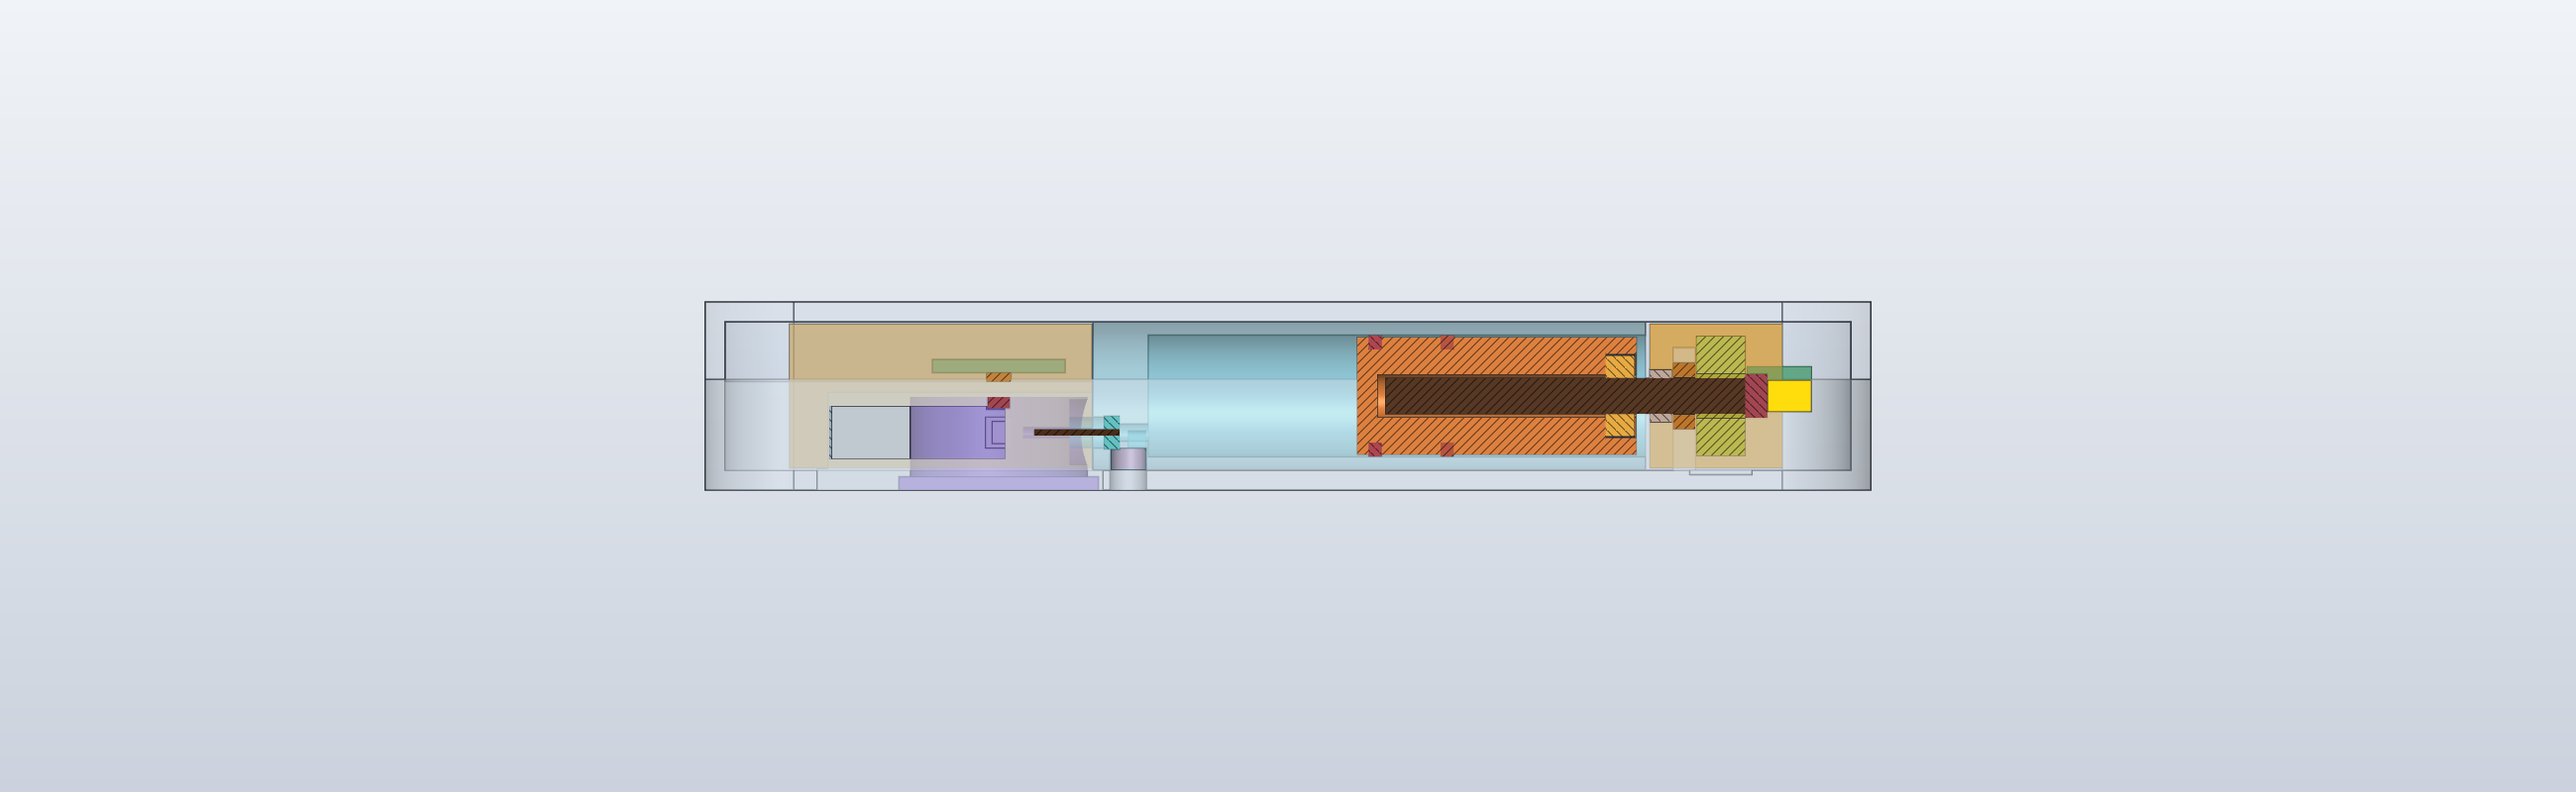
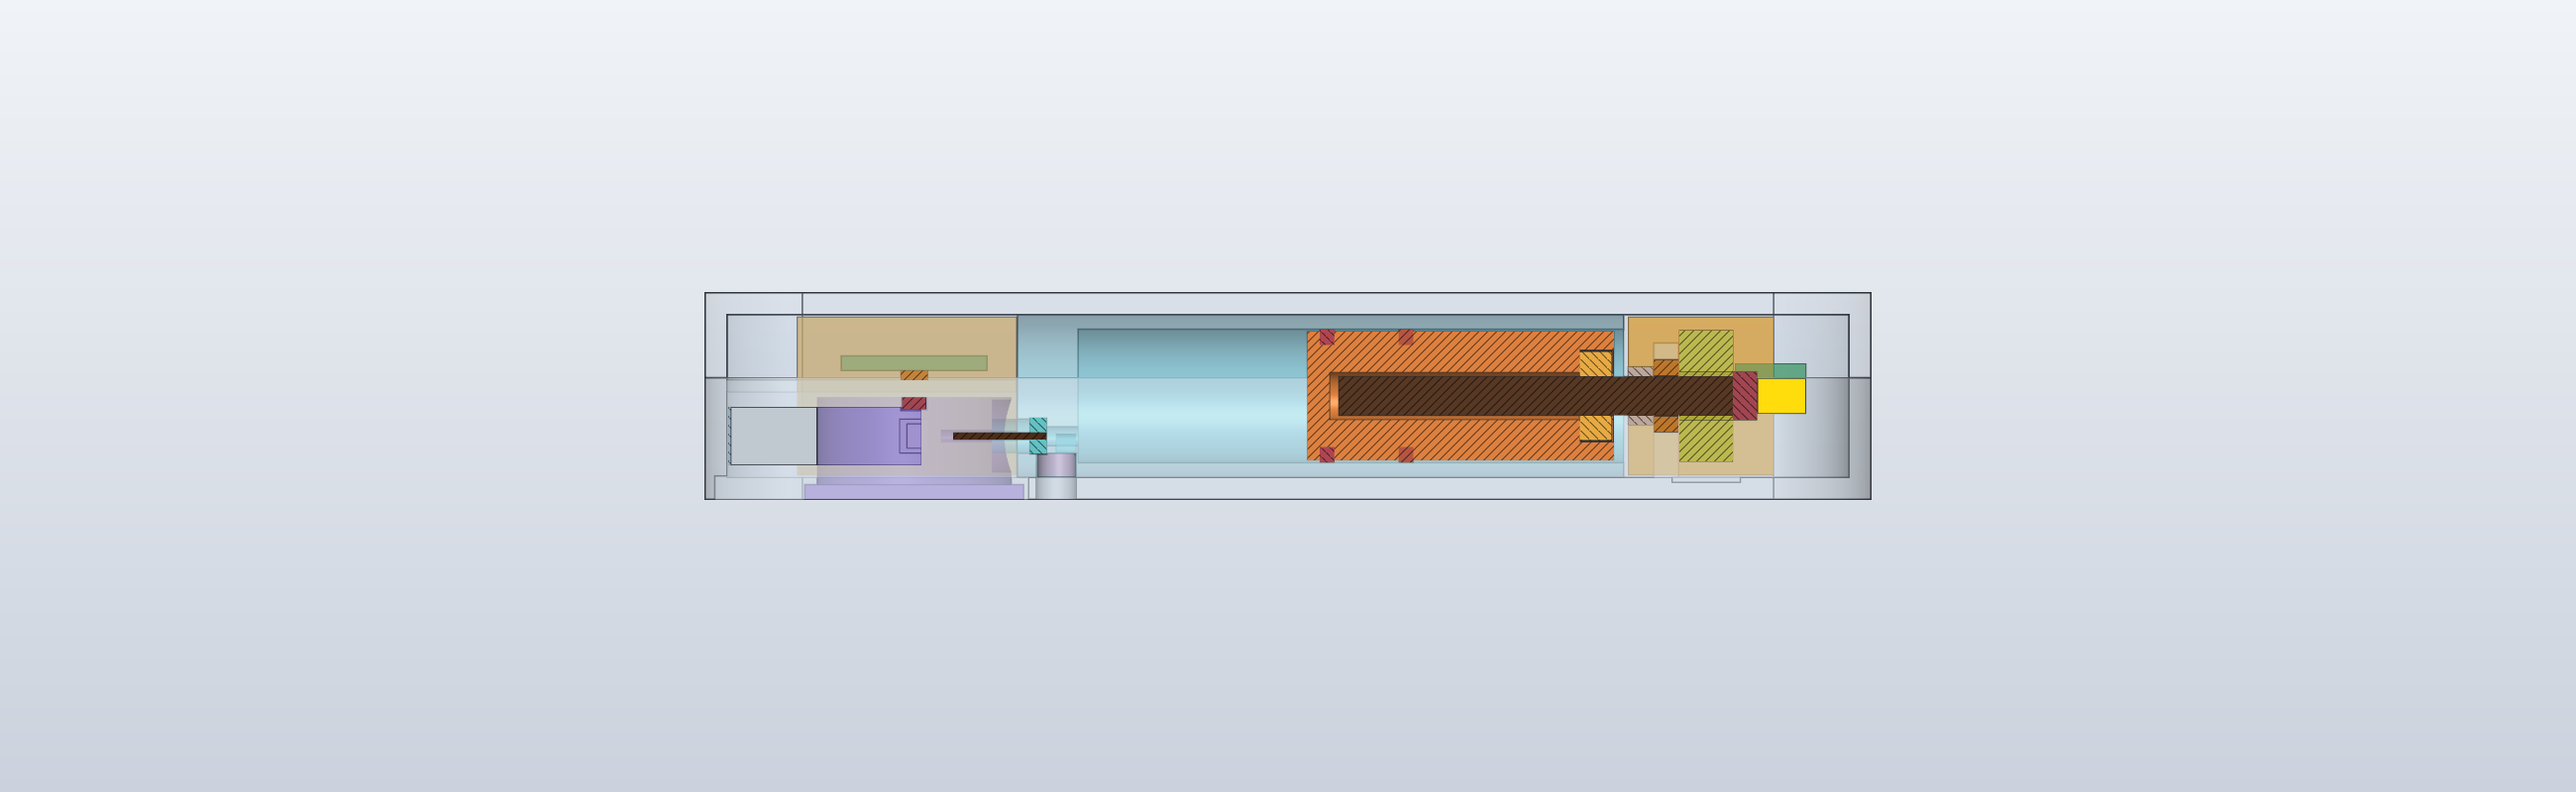
feat(mechanical): stack USB-C and board above the 301030 cell in lane 2
OP-100 47.96 x 34.6 x 8.5, OP-200 66.78 x 34.6 x 8.5; checks and packing pass.

Changed region(s): [[0.2804, 0.375, 0.7165, 0.6562]]

diff --git a/mechanical/op_cup.py b/mechanical/op_cup.py
@@ -99,7 +99,7 @@ def geometry(p: dict, variant: str) -> dict:
     K = dock.layout(p, x_t0, y_r)
     bat, u, bd = c["battery"], c["usb"], c["board"]
     xl2 = xc + 3.4
-    length = max(K["x_far"] + w, xl2 + bat["l"] + 0.3 + u["w"] + 3.1 + w)    # lane 2 (cell + USB-C on the +Y wall + corner) must fit; lane 1 sets the minimum
+    length = max(K["x_far"] + w, xl2 + bat["l"] + 3.1 + w)    # lane 2 (cell + USB-C on the +Y wall + corner) must fit; lane 1 sets the minimum
     lane2_y = [w + res_w + 0.2, W - w - 0.1]
     bat, u, bd = c["battery"], c["usb"], c["board"]
     x_l2 = xl2
@@ -111,17 +111,18 @@ def geometry(p: dict, variant: str) -> dict:
          "ratio": g["z_motor"] / g["z_rod"],
          "u_per_step": dr["screw_pitch"] * (g["z_motor"] / g["z_rod"]) / (dr["steps_per_rev"] * dr["gh_ratio"]) * p["cup_bore_area"] / 10.0}
     xb1 = x_l2 + bat["l"]
-    L["battery"] = {"x": [x_l2, xb1], "y": [lane2_y[0], lane2_y[0] + bat["w"]], "z": [bat["z0"], bat["z0"] + bat["t"]]}
-    xu0 = xb1 + 0.3
-    L["usb"] = {"x": [xu0, xu0 + u["w"]], "y": [W - w - u["d"], W - w], "z": [u["z_c"] - u["h"] / 2, u["z_c"] + u["h"] / 2]}
-    L["board"] = {"x": [x_l2, xb1], "y": list(lane2_y), "z": [bat["z0"] + bat["t"] + 0.3, bd["z1"]]}
-    L["aux"] = {"x": [xu0, length - 3.6], "y": list(lane2_y), "z": [4.9, bd["z1"]]}
+    tb = bat["z0"] + bat["t"]                                                    # cell top incl. 0.2 swell allowance (3.0 + 0.2)
+    L["battery"] = {"x": [x_l2, xb1], "y": [lane2_y[0], lane2_y[0] + bat["w"]], "z": [bat["z0"], tb]}
+    L["usb"] = {"x": [x_l2, x_l2 + u["w"]], "y": [W - w - u["d"], W - w], "z": [tb + 0.1, tb + 0.1 + u["h"]]}      # USB-C stacked ABOVE the front end of the cell
+    L["board"] = {"x": [x_l2 + u["w"] + 0.3, xb1], "y": list(lane2_y), "z": [tb + 0.1, tb + 0.1 + 0.8 + 1.3]}      # main board above the rest of the cell
+    xa0 = xb1 + 0.3
+    L["aux"] = {"x": [xa0, max(xa0 + 0.5, length - 3.6)], "y": list(lane2_y), "z": [4.9, bd["z1"]]}
     L["io"] = {"x": [w + 3.1, x_dry - 0.2], "y": [w + 0.1, ty - tm["pkg"][1] / 2 - 0.2], "z": [w + 0.1, bd["z1"]]}
     hy = K["half"] + p["cup"]["dock"]["pocket_wall"] + 0.1
     L["side_a"] = {"x": [K["x_bf"], length - 3.8], "y": [w + 0.1, y_r - hy], "z": [w + 0.1, bd["z1"]]}
     L["side_b"] = {"x": [K["x_bf"], length - w - 0.3], "y": [y_r + hy, w + res_w - 0.1], "z": [w + 0.1, bd["z1"]]}
     L["dock_board"] = {"x": [K["x_d"] - 3.0, K["x_d"] + 3.0], "y": [y_r - 3.0, y_r + 3.0], "z": [5.3, 5.9]}
-    L["lane2_fit"] = {"need_x": xu0 + u["w"] - x_l2, "have_x": length - w - x_l2}
+    L["lane2_fit"] = {"need_x": bat["l"] + 3.1, "have_x": length - w - x_l2}
     L["envelope"] = {"bbox_mm": [round(length, 2), W, H], "bbox_volume_ml": round(length * W * H / 1000.0, 2)}
     return L
 
@@ -226,7 +227,7 @@ def build_housing(s: Script, p: dict, L: dict) -> None:
     cuts.append(s.box("t_grelief2", (xc - 3.2, xc + 3.2), (L["gear_a_y"][0] - 0.3, L["gear_a_y"][1] + 0.3), (w - g["floor_relief"], w + 0.01)))
     u, usb = L["usb"], c["usb"]
     xu = (u["x"][0] + u["x"][1]) / 2
-    cuts.append(s.box("t_usb_open", (xu - usb["open_w"] / 2, xu + usb["open_w"] / 2), (W - w - 0.1, W + 0.1), (usb["z_c"] - usb["open_h"] / 2, usb["z_c"] + usb["open_h"] / 2)))
+    cuts.append(s.box("t_usb_open", (xu - usb["open_w"] / 2, xu + usb["open_w"] / 2), (W - w - 0.1, W + 0.1), ((u["z"][0] + u["z"][1]) / 2 - usb["open_h"] / 2, (u["z"][0] + u["z"][1]) / 2 + usb["open_h"] / 2)))
     bx, by, bh = dr["term_block"]
     yt = L["gearhead_y"][0] + dr["term_x"]
     cuts.append(s.box("t_pin_pocket", (xc - by / 2 - 0.4, xc + by / 2 + 0.4), (yt - bx / 2 - 0.4, yt + dr["pin_tab_len"] + 0.4), (0.35, w + 0.01)))

diff --git a/mechanical/cup_annotate.py b/mechanical/cup_annotate.py
@@ -90,7 +90,7 @@ def draw(p: dict, L: dict, svg_path: Path) -> Path:
         (sum(L["magnet"]) / 2, yr - 0.2, "Diametric magnet on gear B's rear face", "#cc2222"),
         (sum(L["tmag"]) / 2, L["tmag_y"], "TMAG5273 beside the magnet (0.5 mm gap), tiny sensor tab", "#ffd400"),
         (sum(L["battery"]["x"]) / 2, L["battery"]["y"][0] + 5, "Battery keep-out: Ampul 301030 (3.0 x 10 x 30, 90 mAh, PCM)", "#3a5fcd"),
-        (sum(L["usb"]["x"]) / 2, sum(L["usb"]["y"]) / 2, "USB-C keep-out (+Y long wall of lane 2)", "#8a3fd0"),
+        (sum(L["usb"]["x"]) / 2, sum(L["usb"]["y"]) / 2, "USB-C stacked ABOVE the front end of the cell (opening in the +Y long wall)", "#8a3fd0"),
         (sum(L["board"]["x"]) / 2, L["board"]["y"][1] - 1.5, "Main board keep-out above the battery", "#2e8b57"),
         (sum(L["aux"]["x"]) / 2, L["aux"]["y"][1] - 2.0, "Piezo / button / aux keep-out", "#7fbf7f"),
         (sum(L["io"]["x"]) / 2, sum(L["io"]["y"]) / 2, "Rear-corner keep-out: button, LED, buzzer, charger strip (full height)", "#d09020"),

diff --git a/mechanical/V010-CUP.md b/mechanical/V010-CUP.md
@@ -8,12 +8,12 @@ Output: `out/v010-cup/` (iso with clear lid, exploded, top section at the tank a
 ## Layout A (user sketch, final)
 Top view, +X right, +Y up. **Motor NFP-608-26.45 transverse (axis Y) is the last element at the rear and spans both lanes**; nothing behind it.
 Lane 1 (bottom): miter gear B on the rod (rod ENDS at gear B; magnet on gear B's rear face, TMAG5273 beside it with 0.5 mm gap) -> bush + collar (thrust bearing) -> cup plunger -> tank (closed walls) -> front wall (fill septum on the UNDERSIDE, outlet straight through the wall into the needle hub) -> dock at the right end (needle +X into the cannula side septum).
-Lane 2 (top): cell (4 mm thick class), main board above it, USB-C in the +Y long wall, piezo / button / aux, length-matched; a keep-out in the rear corner of lane 1 (button, LED, buzzer, charger strip).
+Lane 2 (top): cell (4 mm thick class), main board above it, USB-C above the cell front end (opening in the +Y long wall), piezo / button / aux, length-matched; a keep-out in the rear corner of lane 1 (button, LED, buzzer, charger strip).
 Exactly two gears (z16 / z16 miter, 1:1), one rod, no carriage, tongue, idler, end cap. The only moving seals are the two lip rings of the plunger.
 
 | size | L x W x H (mm) | envelope | stroke | plunger | tank | bore | U/step |
 |---|---|---|---|---|---|---|---|
-| OP-100 | **52.61 x 34.6 x 8.5** | 15.5 ml | 9.4 mm | 12.6 mm | 24.9 mm | 20.3 x 5.5 | 0.00703 |
+| OP-100 | **47.96 x 34.6 x 8.5** | 14.1 ml | 9.4 mm | 12.6 mm | 24.9 mm | 20.3 x 5.5 | 0.00703 |
 | OP-200 | **66.78 x 34.6 x 8.5** | 19.6 ml | 18.8 mm | 22.0 mm | 43.8 mm | 20.3 x 5.5 | 0.00703 |
 
 Both PASS `check.py`; the 45 / 52 mm length and 32 mm width targets are MISSED (TARGET lines). Width 34.6: the transverse motor reaches 21.1 mm from the tank axis (gear stage + NFP body), so a 23 mm lane 1 forces W >= 34.6; lane 2 is cell width + 0.4 (11.0 mm with the placeholder cell) and the tank gets the rest (outer 21.5, bore 20.3 x 5.5; aspect 3.7). W = 32 would cap the bore at 16.7 (OP-100 50.2 mm earlier). Lane 2 can not be 6 mm: no real orderable cell is narrower than 10 mm (see battery below).
@@ -26,7 +26,7 @@ Both PASS `check.py`; the 45 / 52 mm length and 32 mm width targets are MISSED (
 ## Thrust (19 x 5.5 class plunger, estimate, VERIFY on the bench)
 NFP-608-26.45: 1.6 gf cm x 26.45 x 0.64 = 2.65 N mm at the gearhead; miter 1:1 eta 0.9 -> 2.39 N mm at the rod; M1.6 x 0.35 screw eta 0.2 -> **8.6 N** at the plunger. Needed (bore 20.3 x 5.5, 106 mm2): seal breakaway 2.0 N (bench 1.6 N scaled by perimeter 48.6/37.7) + 30 kPa occlusion 3.2 N = **5.2 N**; available 8.6 N = **1.65x** (>= 1.5x rule met, requirement >= 5 N met, SF 2 = 10.4 N not met). Fix if short: miter pair z16 (motor) : z20 (rod) = ratio 0.8 -> 10.7 N (+25 %), U/step 0.0045, plunger 25 % slower; firmware preset g16-20 exists.
 Plunger aspect 20.1 / 5.3 = 3.7 (limit 4.5); lip seals sit on the long flat sides as before (the stadium ring contacts the whole perimeter, oversize 0.15); anti-tilt: cup body 12.6 mm (OP-100) / 22 mm (OP-200) on a 20.3 mm width (L/W 0.62 / 1.08, check >= 0.5) plus two rings 3.25 mm apart; add guide fins if the bench shows yaw jamming.
-Battery (`mechanical/battery-selection.md`): **Ampul 301030**, 3.0 x 10 x 30 mm, 90 mAh listed (60 mAh realistic per the Liter table), integrated protection chip, two wires, 4.00 EUR, https://ampul.eu/en/battery/6782-li-pol-battery-90mah-37v-301030 (page read; shipping to DE and the real size to be measured). Days per charge at 3.4 mAh/day (0.15 mA) with 0.85 x 0.8 derating: **about 12 days (60 mAh) to 18 days (90 mAh)**, far above 48 h + reserve; width, not capacity, is the limit. Backup: Soldered 350824 (40 mAh, JST-PH, BerryBase.de, about 8 days, dimensions to measure). The cell makes lane 2 the longer lane in OP-100 (31.5 mm cell + USB-C + corner): OP-100 is 4.6 mm longer than lane 1 alone needs.
+Battery (`mechanical/battery-selection.md`): **Ampul 301030**, 3.0 x 10 x 30 mm, 90 mAh listed (60 mAh realistic per the Liter table), integrated protection chip, two wires, 4.00 EUR, https://ampul.eu/en/battery/6782-li-pol-battery-90mah-37v-301030 (page read; shipping to DE and the real size to be measured). Days per charge at 3.4 mAh/day (0.15 mA) with 0.85 x 0.8 derating: **about 12 days (60 mAh) to 18 days (90 mAh)**, far above 48 h + reserve; width, not capacity, is the limit. Backup: Soldered 350824 (40 mAh, JST-PH, BerryBase.de, about 8 days, dimensions to measure). Lane 2 stack (z): floor 0.9, cell 3.0 + 0.2 swell allowance (z 0.9-4.1), USB-C receptacle 3.26 mm stacked ABOVE the front end of the cell (z 4.2-7.46, opening in the +Y long wall, lid inner 7.6), main board 0.8 + parts <= 1.3 above the rest of the cell (z 4.2-6.4); the receptacle is soldered to the board by the PCBA, the cell wires run to the board edge (a PCM end of the cell needs a 1.5 mm tail, inside the 31.5 mm envelope). Lane 2 is then as long as the cell, so OP-100 returns to the lane-1 length.
 
 ## Dock (all values TODO-MEASURE; head estimated from the photos by proportion: dome d8.0 x 4.2, base 9 x 9)
 Bottom-open pocket 11.9 x 9.8 (head + 0.2 clearance + 3.5 slide), roof 0.5; the pod is lowered over the head and slid 3.5 mm (= needle insertion) until two U-clip teeth drop into the dome side notches. Footprint before (frozen insert + full-length tunnel): 21.2 x 15.2 insert/flange pocket and a 12.4 mm wide path along the whole pod; after: 11.9 x 9.8 (base-plate window 12.9 mm: a 9 mm base plate + slide; <= 12 needs a plate <= 8.1 mm; width 10 would need dome and plate <= 9.6).
@@ -39,5 +39,5 @@ Bore 20.3 x 5.5 (stroke 9.4 mm for 100 U), wall 0.6, outer 21.5 x 6.7, front wal
 Refill (pressure fill, spec 3c): remove the pod, turn it over, push water with a syringe through the underside septum while the firmware retracts the plunger at a fixed rate; the fill hole is inside the Velcro footprint and outside the dock window (check H14); the pocket roof and the docked head cover nothing else.
 
 ## Checks (`check.py --variant v010 --drive cup`)
-No interference, no open bodies, height <= 8.5; rod never inside the wet volume (analytic + CAD wet volumes at full / empty), plunger reaches the front wall, tip stays 0.4 mm off the cup bottom, tank volume = closed-bore model (no slot), septum not reachable when docked, needle recessed in the extended guard, dome path free, exactly two gears, nothing behind the motor column, thrust >= 5 N, packing (`cup_packing.py`): no empty full-height rectangle >= 4 x 4 mm (largest 23 mm2; free plan area lane 1 89 / lane 2 38 mm2 of 1107 / 559); the strips beside the dock pocket hold piezo / button / ICs.
+No interference, no open bodies, height <= 8.5; rod never inside the wet volume (analytic + CAD wet volumes at full / empty), plunger reaches the front wall, tip stays 0.4 mm off the cup bottom, tank volume = closed-bore model (no slot), septum not reachable when docked, needle recessed in the extended guard, dome path free, exactly two gears, nothing behind the motor column, thrust >= 5 N, packing (`cup_packing.py`): no empty full-height rectangle >= 4 x 4 mm (largest 23 mm2; free plan area lane 1 88 / lane 2 38 mm2 of 1007 / 508); the strips beside the dock pocket hold piezo / button / ICs.
 Open: closure screws / gasket are not detailed (no free bosses beside the full-width tank), vent d0.8 + ePTFE in the lid, FPC/solderless links between the keep-outs, dock hall threshold, CNC review.

diff --git a/docs/STATUS.md b/docs/STATUS.md
@@ -4,7 +4,7 @@
 > It is updated on every push. Last updated: **2026-11-19 (cloud session, milestone 1 merged)**.
 
 ## v0.1.0 cup pod, layout A (2026-11-19, mechanical worktree)
-- `generate.py --variant v010 --drive cup` / `check.py --variant v010 --drive cup`: transverse motor at the rear spanning both lanes, miter pair z16:z16 (2 gears), rod ends at gear B, cup plunger, tank (un-frozen for this variant: bore 20.3 x 5.5, fill septum underside + outlet in the front wall), dock at the right end of lane 1 (pocket 11.9 x 9.8, 3.5 mm slide, 301 FH U-clip, spring needle guard), reserved volumes for battery/board/USB-C. OP-100 52.61 x 34.6 x 8.5, OP-200 66.78 x 34.6 x 8.5 (bore 20.3 x 5.5; 45 / 52 mm and 32 mm width targets missed; cell = Ampul 301030, see mechanical/battery-selection.md). Details: `mechanical/V010-CUP.md`. Decision needed: re-freeze the CNC tank (`out/v010-cup/reservoir-cnc`), clip material (301 FH foil), Insight Flex measurements (all dock values TODO-MEASURE).
+- `generate.py --variant v010 --drive cup` / `check.py --variant v010 --drive cup`: transverse motor at the rear spanning both lanes, miter pair z16:z16 (2 gears), rod ends at gear B, cup plunger, tank (un-frozen for this variant: bore 20.3 x 5.5, fill septum underside + outlet in the front wall), dock at the right end of lane 1 (pocket 11.9 x 9.8, 3.5 mm slide, 301 FH U-clip, spring needle guard), reserved volumes for battery/board/USB-C. OP-100 47.96 x 34.6 x 8.5, OP-200 66.78 x 34.6 x 8.5 (bore 20.3 x 5.5; 45 / 52 mm and 32 mm width targets missed; cell = Ampul 301030, see mechanical/battery-selection.md). Details: `mechanical/V010-CUP.md`. Decision needed: re-freeze the CNC tank (`out/v010-cup/reservoir-cnc`), clip material (301 FH foil), Insight Flex measurements (all dock values TODO-MEASURE).
 
 ## MILESTONE 1 (2026-11-19, cloud session) — what changed since the handoff below
 
